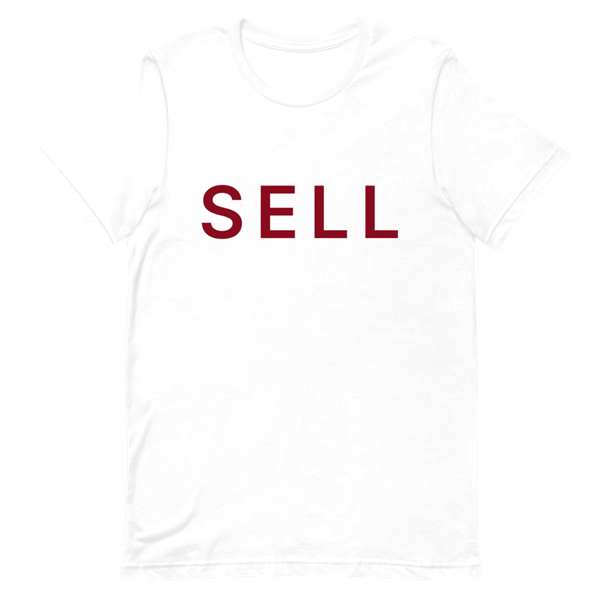
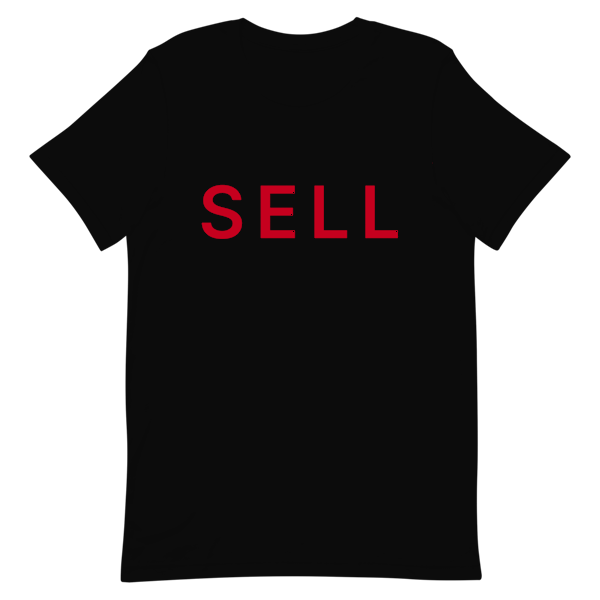
Update NFC West shirt colors

diff --git a/lib/products.ts b/lib/products.ts
@@ -77,6 +77,12 @@ export function colorHex(team: Team, style: Style): string {
 }
 
 const TEE_PRINT_OVERRIDES: Record<string, { name: string; hex: string }> = {
+  "nfl-los-angeles-blue": { name: "gold", hex: "#C5A253" },
+  "nfl-los-angeles-blue-alternate-one": { name: "gold", hex: "#C5A253" },
+  "nfl-san-francisco": { name: "gold", hex: "#C5A253" },
+  "nfl-san-francisco-alternate-one": { name: "red", hex: "#D0071E" },
+  "nfl-seattle": { name: "action green", hex: "#00A651" },
+  "nfl-seattle-alternate-one": { name: "college blue", hex: "#0072CE" },
   "nfl-atlanta": { name: "black", hex: "#000000" },
   "nfl-carolina": { name: "black", hex: "#000000" },
   "nfl-carolina-alternate-one": { name: "process blue", hex: "#0085CA" },

diff --git a/lib/teams.ts b/lib/teams.ts
@@ -197,6 +197,10 @@ const BASE_TEAMS: Team[] = ROWS.map(([slug, division, market, nickname, city, sh
 // Most originals use white ink; the AFC North originals retain their chosen
 // black, orange, and metallic-gold print colors. New England uses Nautical Blue.
 const ALTERNATE_TEE_BLANK: Record<string, string> = {
+  "nfl-arizona": "Black",
+  "nfl-los-angeles-blue": "True Royal",
+  "nfl-san-francisco": "Black",
+  "nfl-seattle": "Kelly",
   "nfl-atlanta": "Black",
   "nfl-baltimore": "Black",
   "nfl-buffalo": "Red",

diff --git a/lib/art.ts b/lib/art.ts
@@ -1,5 +1,5 @@
 // Bump when the shirt artwork or photos change: Printful caches print files by
 // URL and next/image caches optimized photos by URL, so a new number makes
 // both fetch fresh copies.
-export const ART_VERSION = 38;
+export const ART_VERSION = 39;
 
